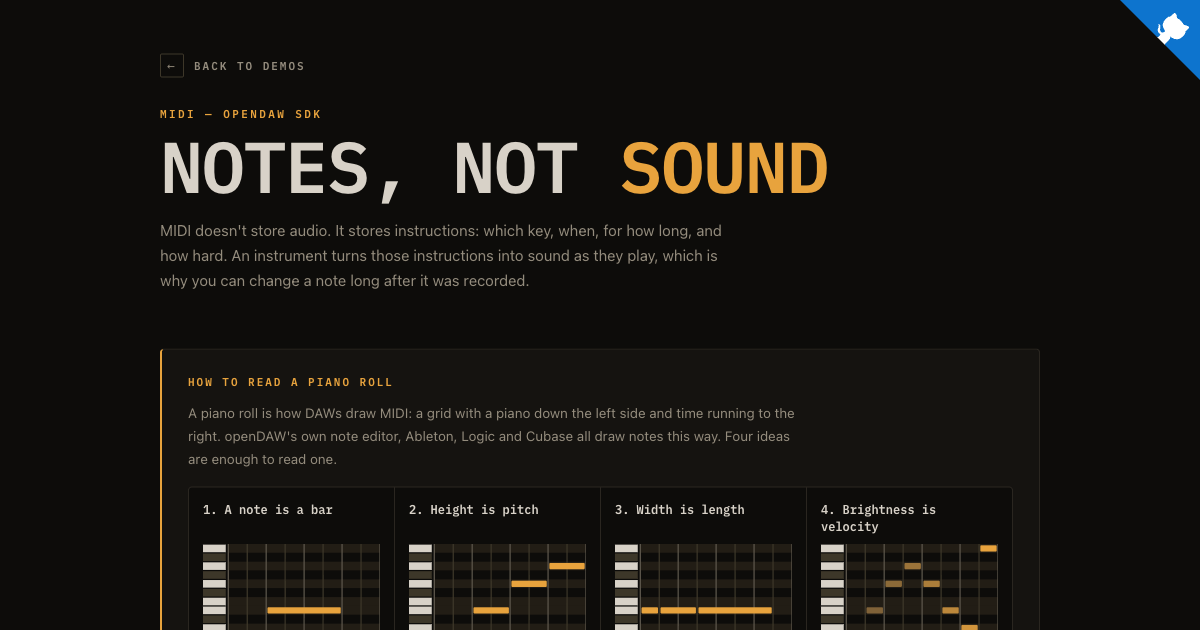
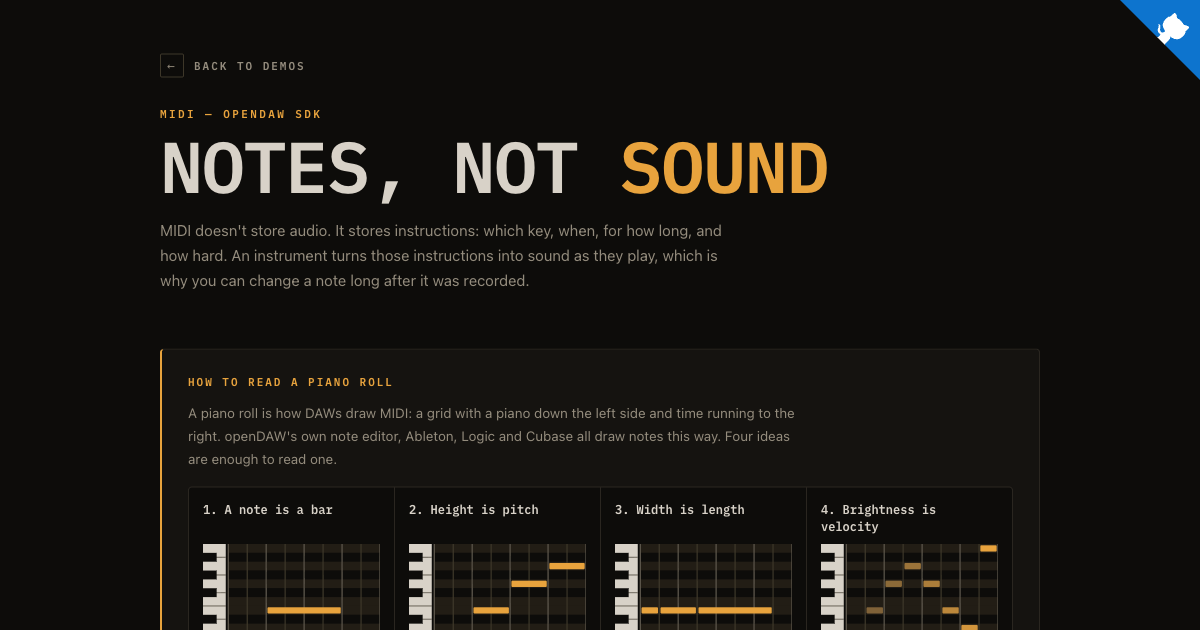
MIDI overview: a real small piano on the rolls; more review fixes
Every roll's piano had black keys as long as the white ones and read as stripes. White
keys now run the full width, divided as an octave's seven are, with shorter black keys
over them on their own rows.

From review: data rows announced themselves as toggles and did nothing when pressed; they
now mark the current note and respond to a press. The code block's padding and size never
applied (a more specific selector won). On a phone the rows wrap and the code block's
comments wrap, so the velocity and the C3 / C4 names stay on screen. The velocity strip is
visible on the data roll, and each step's drawing has its own description for a screen
reader.

diff --git a/src/demos/midi/PianoRollExplainer.tsx b/src/demos/midi/PianoRollExplainer.tsx
@@ -12,6 +12,7 @@ const LOW_PITCH = 60;
 const HIGH_PITCH = 71;
 const ROWS = HIGH_PITCH - LOW_PITCH + 1;
 const KEY_WIDTH = 18;
+const BLACK_KEY_WIDTH = KEY_WIDTH * 0.6;
 const KEY_GAP = 2;
 const GRID_LEFT = KEY_WIDTH + KEY_GAP;
 const STRIP_GAP = 8;
@@ -28,6 +29,8 @@ const flatNote = (position: number, duration: number, pitch: number): PatternNot
 interface Step {
   readonly heading: string;
   readonly text: string;
+  /** What the drawing shows, for a screen reader. */
+  readonly label: string;
   readonly notes: readonly PatternNote[];
   readonly stems: boolean;
 }
@@ -36,24 +39,28 @@ const STEPS: readonly Step[] = [
   {
     heading: "1. A note is a bar",
     text: "It starts sounding at the bar's left edge and stops at its right edge.",
+    label: "One bar in the middle of the roll, two beats long",
     notes: [flatNote(Quarter, 2 * Quarter, 64)],
     stems: false,
   },
   {
     heading: "2. Height is pitch",
     text: "Each row is one piano key. Up one row is one key higher.",
+    label: "Four bars one after another, each on a higher row than the last",
     notes: [flatNote(0, Quarter, 60), flatNote(Quarter, Quarter, 64), flatNote(2 * Quarter, Quarter, 67), flatNote(3 * Quarter, Quarter, 69)],
     stems: false,
   },
   {
     heading: "3. Width is length",
     text: "A wider bar is held longer: the same key, for more time.",
+    label: "Three bars on one row, each twice as wide as the last",
     notes: [flatNote(0, EIGHTH, 64), flatNote(EIGHTH, Quarter, 64), flatNote(EIGHTH + Quarter, 2 * Quarter, 64)],
     stems: false,
   },
   {
     heading: "4. Brightness is velocity",
     text: "How hard the key was hit. The stem underneath shows the same value as a height.",
+    label: "Eight notes getting brighter from left to right, with a taller stem under each",
     notes: MELODY_BAR,
     stems: true,
   },
@@ -87,18 +94,30 @@ const Roll: React.FC<{
 
   const pitches = Array.from({ length: ROWS }, (_, row) => HIGH_PITCH - row);
   const gridLines = Array.from({ length: BAR_PPQN / EIGHTH + 1 }, (_, line) => line * EIGHTH);
+  // A white key meets the next one on the row line (E-F, B-C), or under the middle of the black key between them.
+  const whiteKeyEdges = pitches
+    .filter((pitch) => pitch < HIGH_PITCH && !MidiKeys.isBlackKey(pitch))
+    .map((pitch) => (MidiKeys.isBlackKey(pitch + 1) ? rowTop(pitch + 1) + rowHeight / 2 : rowTop(pitch)));
 
   return (
     <svg className="prx-svg" viewBox={`0 0 ${GRID_LEFT + gridWidth} ${stripBottom}`} role="img" aria-label={label}>
-      {pitches.map((pitch) => {
-        const black = MidiKeys.isBlackKey(pitch);
-        return (
-          <g key={pitch}>
-            <rect x={GRID_LEFT} y={rowTop(pitch)} width={gridWidth} height={rowHeight} fill={black ? "var(--mc-bg)" : "var(--mc-shade)"} />
-            <rect x={0} y={rowTop(pitch) + 0.5} width={KEY_WIDTH} height={rowHeight - 1} fill={black ? "var(--mc-line-bright)" : "var(--mc-text)"} />
-          </g>
-        );
-      })}
+      {pitches.map((pitch) => (
+        <rect
+          key={pitch}
+          x={GRID_LEFT}
+          y={rowTop(pitch)}
+          width={gridWidth}
+          height={rowHeight}
+          fill={MidiKeys.isBlackKey(pitch) ? "var(--mc-bg)" : "var(--mc-shade)"}
+        />
+      ))}
+      <rect data-white-keys x={0} y={0} width={KEY_WIDTH} height={gridHeight} fill="var(--mc-text)" />
+      {whiteKeyEdges.map((y) => (
+        <line key={y} data-key-edge x1={0} x2={KEY_WIDTH} y1={y} y2={y} stroke="var(--mc-faint)" strokeWidth={0.75} />
+      ))}
+      {pitches.filter(MidiKeys.isBlackKey).map((pitch) => (
+        <rect key={pitch} data-black-key={pitch} x={0} y={rowTop(pitch)} width={BLACK_KEY_WIDTH} height={rowHeight} fill="var(--mc-bg)" />
+      ))}
       {gridLines.map((ppqn) => (
         <line
           key={ppqn}
@@ -125,7 +144,7 @@ const Roll: React.FC<{
           onClick={onActivate === undefined ? undefined : () => onActivate(index)}
         />
       ))}
-      {stems && <rect x={GRID_LEFT} y={gridHeight + STRIP_GAP} width={gridWidth} height={stripHeight} fill="var(--mc-panel)" />}
+      {stems && <rect x={GRID_LEFT} y={gridHeight + STRIP_GAP} width={gridWidth} height={stripHeight} fill="var(--mc-shade)" />}
       {stems &&
         notes.map((note, index) => {
           const stemX = x(note.position) + STEM_INSET;
@@ -147,7 +166,7 @@ export const PianoRollSteps: React.FC = () => (
     {STEPS.map((step) => (
       <div className="prx-step" data-step key={step.heading}>
         <h3 className="prx-step-head">{step.heading}</h3>
-        <Roll label={step.heading} notes={step.notes} stems={step.stems} geometry={STEP_GEOMETRY} />
+        <Roll label={step.label} notes={step.notes} stems={step.stems} geometry={STEP_GEOMETRY} />
         <p className="prx-step-text">{step.text}</p>
       </div>
     ))}
@@ -212,9 +231,11 @@ export const EffectChainDiagram: React.FC = () => (
   </div>
 );
 
-/** A value in a note object, padded so the columns line up in the mono face. */
-const Value: React.FC<{ value: string | number; width?: number }> = ({ value, width = 0 }) => (
-  <span className="prx-value">{String(value).padStart(width, " ")}</span>
+/** One field of a note object, its value padded so the columns line up in the mono face. Never breaks across lines. */
+const Field: React.FC<{ name: string; value: string | number; width?: number }> = ({ name, value, width = 0 }) => (
+  <span className="prx-field">
+    {name}: <span className="prx-value">{String(value).padStart(width, " ")}</span>
+  </span>
 );
 
 /** The note the page opens with lit, so the link shows before anyone touches it. */
@@ -230,18 +251,19 @@ export const NoteDataLink: React.FC = () => {
             type="button"
             className="prx-row"
             key={index}
-            aria-pressed={active === index}
+            aria-current={active === index ? "true" : undefined}
             onMouseEnter={() => setActive(index)}
             onFocus={() => setActive(index)}
+            onClick={() => setActive(index)}
           >
-            {"{ position: "}
-            <Value value={note.position} width={4} />
-            {", duration: "}
-            <Value value={note.duration} />
-            {", pitch: "}
-            <Value value={note.pitch} />
-            {", velocity: "}
-            <Value value={note.velocity.toFixed(2)} />
+            {"{ "}
+            <Field name="position" value={note.position} width={4} />
+            {", "}
+            <Field name="duration" value={note.duration} />
+            {", "}
+            <Field name="pitch" value={note.pitch} />
+            {", "}
+            <Field name="velocity" value={note.velocity.toFixed(2)} />
             {" }"}
           </button>
         ))}
@@ -317,8 +339,9 @@ export const PIANO_ROLL_STYLES = `
   color: var(--mc-muted);
   cursor: default;
 }
-.prx-row[aria-pressed="true"] { background: var(--mc-shade); border-left-color: var(--mc-amber); color: var(--mc-text); }
+.prx-row[aria-current="true"] { background: var(--mc-shade); border-left-color: var(--mc-amber); color: var(--mc-text); }
 .prx-row:focus-visible { outline: 2px solid var(--mc-amber); outline-offset: -2px; }
+.prx-field { white-space: pre; }
 .prx-value { color: var(--mc-amber); }
 .prx-roll { display: grid; grid-template-columns: 24px minmax(0, 1fr); min-width: 0; }
 .prx-rail { position: relative; }
@@ -345,13 +368,12 @@ export const PIANO_ROLL_STYLES = `
 .prx-names dt:nth-last-of-type(1), .prx-names dd:nth-last-of-type(1) { border-bottom: 0; }
 .prx-names dt { font-family: var(--mc-mono); color: var(--mc-amber); }
 .prx-names dd { color: var(--mc-muted); }
-.prx-code {
+.mc-anchors .prx-code {
   display: block;
   max-width: 72ch;
   margin-top: 12px;
   padding: 12px 14px;
-  overflow-x: auto;
-  white-space: pre;
+  white-space: pre-wrap;
   font-family: var(--mc-mono);
   font-size: 12.5px;
   line-height: 1.7;
@@ -406,5 +428,6 @@ export const PIANO_ROLL_STYLES = `
 }
 @media (max-width: 480px) {
   .prx-steps { grid-template-columns: minmax(0, 1fr); }
+  .prx-row { white-space: normal; min-width: 0; line-height: 1.5; }
 }
 `;

diff --git a/src/demos/midi/PianoRollExplainer.dom.test.tsx b/src/demos/midi/PianoRollExplainer.dom.test.tsx
@@ -55,11 +55,54 @@ describe("PianoRollSteps", () => {
     bars.slice(1).forEach((bar, index) => expect(num(bars[index], "x") + spans[index]).toBe(num(bar, "x"))); // they abut
   });
 
-  it("draws the piano's black and white keys in pitch order", () => {
-    const { container } = render(<PianoRollSteps />);
-    const keys = [...container.querySelector("svg")!.querySelectorAll('rect[x="0"]')];
-    const black = keys.map((key) => key.getAttribute("fill") === "var(--mc-line-bright)");
-    expect(black).toEqual([false, true, false, true, false, true, false, false, true, false, true, false]); // 71 down to 60
+  describe("the piano", () => {
+    function piano() {
+      const { container } = render(<PianoRollSteps />);
+      const svg = container.querySelector("svg")!;
+      return {
+        white: svg.querySelector("[data-white-keys]")!,
+        black: [...svg.querySelectorAll("[data-black-key]")],
+        edges: [...svg.querySelectorAll("[data-key-edge]")],
+      };
+    }
+
+    it("has a black key for each of the five black notes, and no others", () => {
+      const { black } = piano();
+      expect(black.map((key) => key.getAttribute("data-black-key"))).toEqual(["70", "68", "66", "63", "61"]);
+    });
+
+    it("makes black keys shorter than white keys", () => {
+      const { white, black } = piano();
+      for (const key of black) {
+        expect(num(key, "x")).toBe(num(white, "x"));
+        expect(num(key, "width")).toBeLessThan(num(white, "width") * 0.7);
+        expect(num(key, "width")).toBeGreaterThan(num(white, "width") * 0.4);
+      }
+    });
+
+    it("divides the white keys into the seven of an octave, E-F and B-C sharing no black key", () => {
+      const { white, black, edges } = piano();
+      expect(edges).toHaveLength(6); // 7 white keys from C (60) up to B (71)
+      const rowHeight = num(black[0], "height");
+      const rows = edges.map((edge) => (num(white, "y") + num(white, "height") - num(edge, "y1")) / rowHeight);
+      // Rows from the bottom: under a black key's middle where one sits between, on the row line for E-F.
+      expect(rows.sort((a, b) => a - b)).toEqual([1.5, 3.5, 5, 6.5, 8.5, 10.5]);
+    });
+  });
+
+  it("lines each black key up with its own row in the grid", () => {
+    render(<PianoRollSteps />);
+    const firstRoll = screen.getByRole("heading", { name: HEADINGS[1] }).closest("[data-step]")!;
+    const bottomBar = firstRoll.querySelector("[data-note]")!; // key 60
+    const rowHeight = num(bottomBar, "height") + BAR_INSET;
+    const rowOf60 = num(bottomBar, "y") - BAR_INSET / 2;
+    const keys = [...firstRoll.querySelectorAll("[data-black-key]")];
+    expect(keys).toHaveLength(5);
+    for (const key of keys) {
+      const pitch = Number(key.getAttribute("data-black-key"));
+      expect(num(key, "y")).toBe(rowOf60 - (pitch - 60) * rowHeight);
+      expect(num(key, "height")).toBe(rowHeight);
+    }
   });
 
   it("keeps every bar inside its roll", () => {
@@ -85,6 +128,14 @@ describe("PianoRollSteps", () => {
     const last = step(HEADINGS[3]);
     expect(last.stems).toHaveLength(last.bars.length);
     expect(new Set(last.bars.map((bar) => bar.getAttribute("fill"))).size).toBe(last.bars.length);
+  });
+
+  it("describes each drawing to a screen reader, rather than repeating its heading", () => {
+    render(<PianoRollSteps />);
+    const labels = screen.getAllByRole("img").map((image) => image.getAttribute("aria-label"));
+    expect(labels).toHaveLength(4);
+    labels.forEach((label) => expect(HEADINGS).not.toContain(label));
+    expect(new Set(labels).size).toBe(4);
   });
 
   it("gives a harder note a brighter bar and a taller stem", () => {
@@ -154,7 +205,7 @@ describe("NoteDataLink", () => {
     const rows = within(container).getAllByRole("button");
     const bars = [...container.querySelectorAll("[data-note]")];
     const lit = () => ({
-      rows: rows.flatMap((row, index) => (row.getAttribute("aria-pressed") === "true" ? [index] : [])),
+      rows: rows.flatMap((row, index) => (row.getAttribute("aria-current") === "true" ? [index] : [])),
       bars: bars.flatMap((bar, index) => (bar.getAttribute("stroke") !== null ? [index] : [])),
     });
     return { container, rows, bars, lit };
@@ -216,6 +267,17 @@ describe("NoteDataLink", () => {
     const { bars, lit } = show();
     fireEvent.click(bars[5]);
     expect(lit()).toEqual({ rows: [5], bars: [5] });
+  });
+
+  it("lights a pair when a row is tapped or pressed", () => {
+    const { rows, lit } = show();
+    fireEvent.click(rows[4]);
+    expect(lit()).toEqual({ rows: [4], bars: [4] });
+  });
+
+  it("never announces a row as a toggle: it marks the current note", () => {
+    const { rows } = show();
+    rows.forEach((row) => expect(row.hasAttribute("aria-pressed")).toBe(false));
   });
 
   it("lights a pair when a row takes keyboard focus", () => {

diff --git a/src/demos/midi/midi-overview.tsx b/src/demos/midi/midi-overview.tsx
@@ -27,7 +27,7 @@ const PAGES = [
     chip: "var(--mc-amber)",
     name: "MIDI Effects",
     direction: "HEAR NOTES CHANGE",
-    limit: "The lane of what came out cannot show velocity, so every bar is one colour, or timing finer than a frame",
+    limit: "The lane of what came out cannot show velocity (every bar is one colour) or timing finer than a frame",
     href: "/midi-effects-demo.html",
     prose:
       "Run a pattern through Arpeggio, Note Filter, Pitch, Velocity and Zeitgeist on a synth, one at a time or stacked in any order, and watch what comes out next to what went in.",
